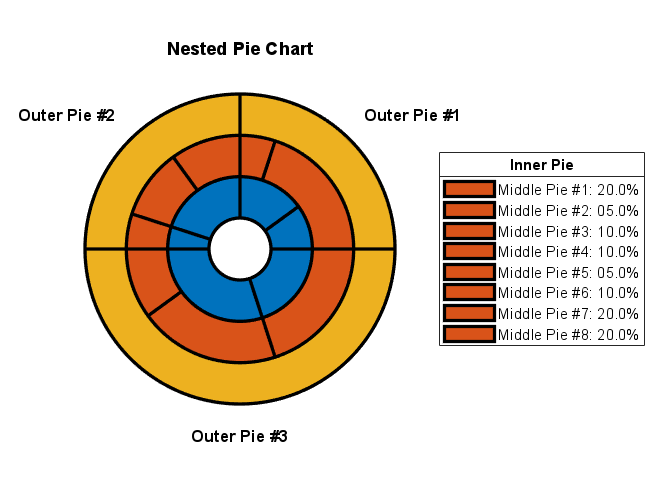
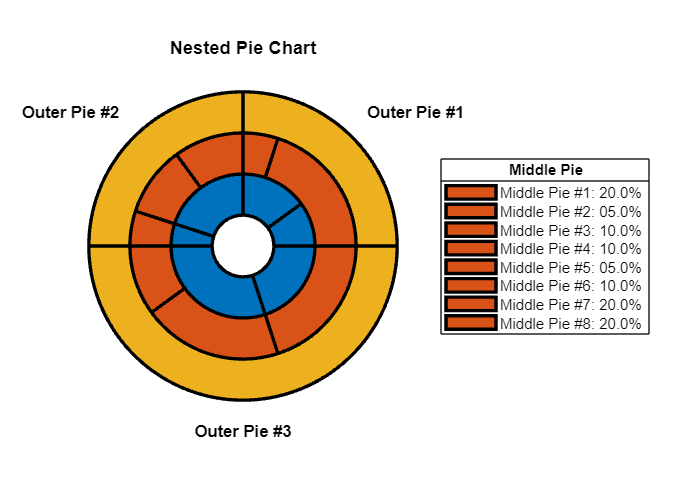
Update screenshot and legend text for examples.

diff --git a/README.md b/README.md
@@ -260,7 +260,7 @@ for ii = 1:length(legend_str)
     legend_str{ii} = sprintf('Middle Pie #%i: %04.1f%%', ii, legend_value*100);
 end
 lg =legend(legend_str, 'Location', 'eastoutside');
-lg.Title.String = 'Inner Pie';
+lg.Title.String = 'Middle Pie';
 ```
 <p align="center">
   <img src="screenshot/example5.png">
